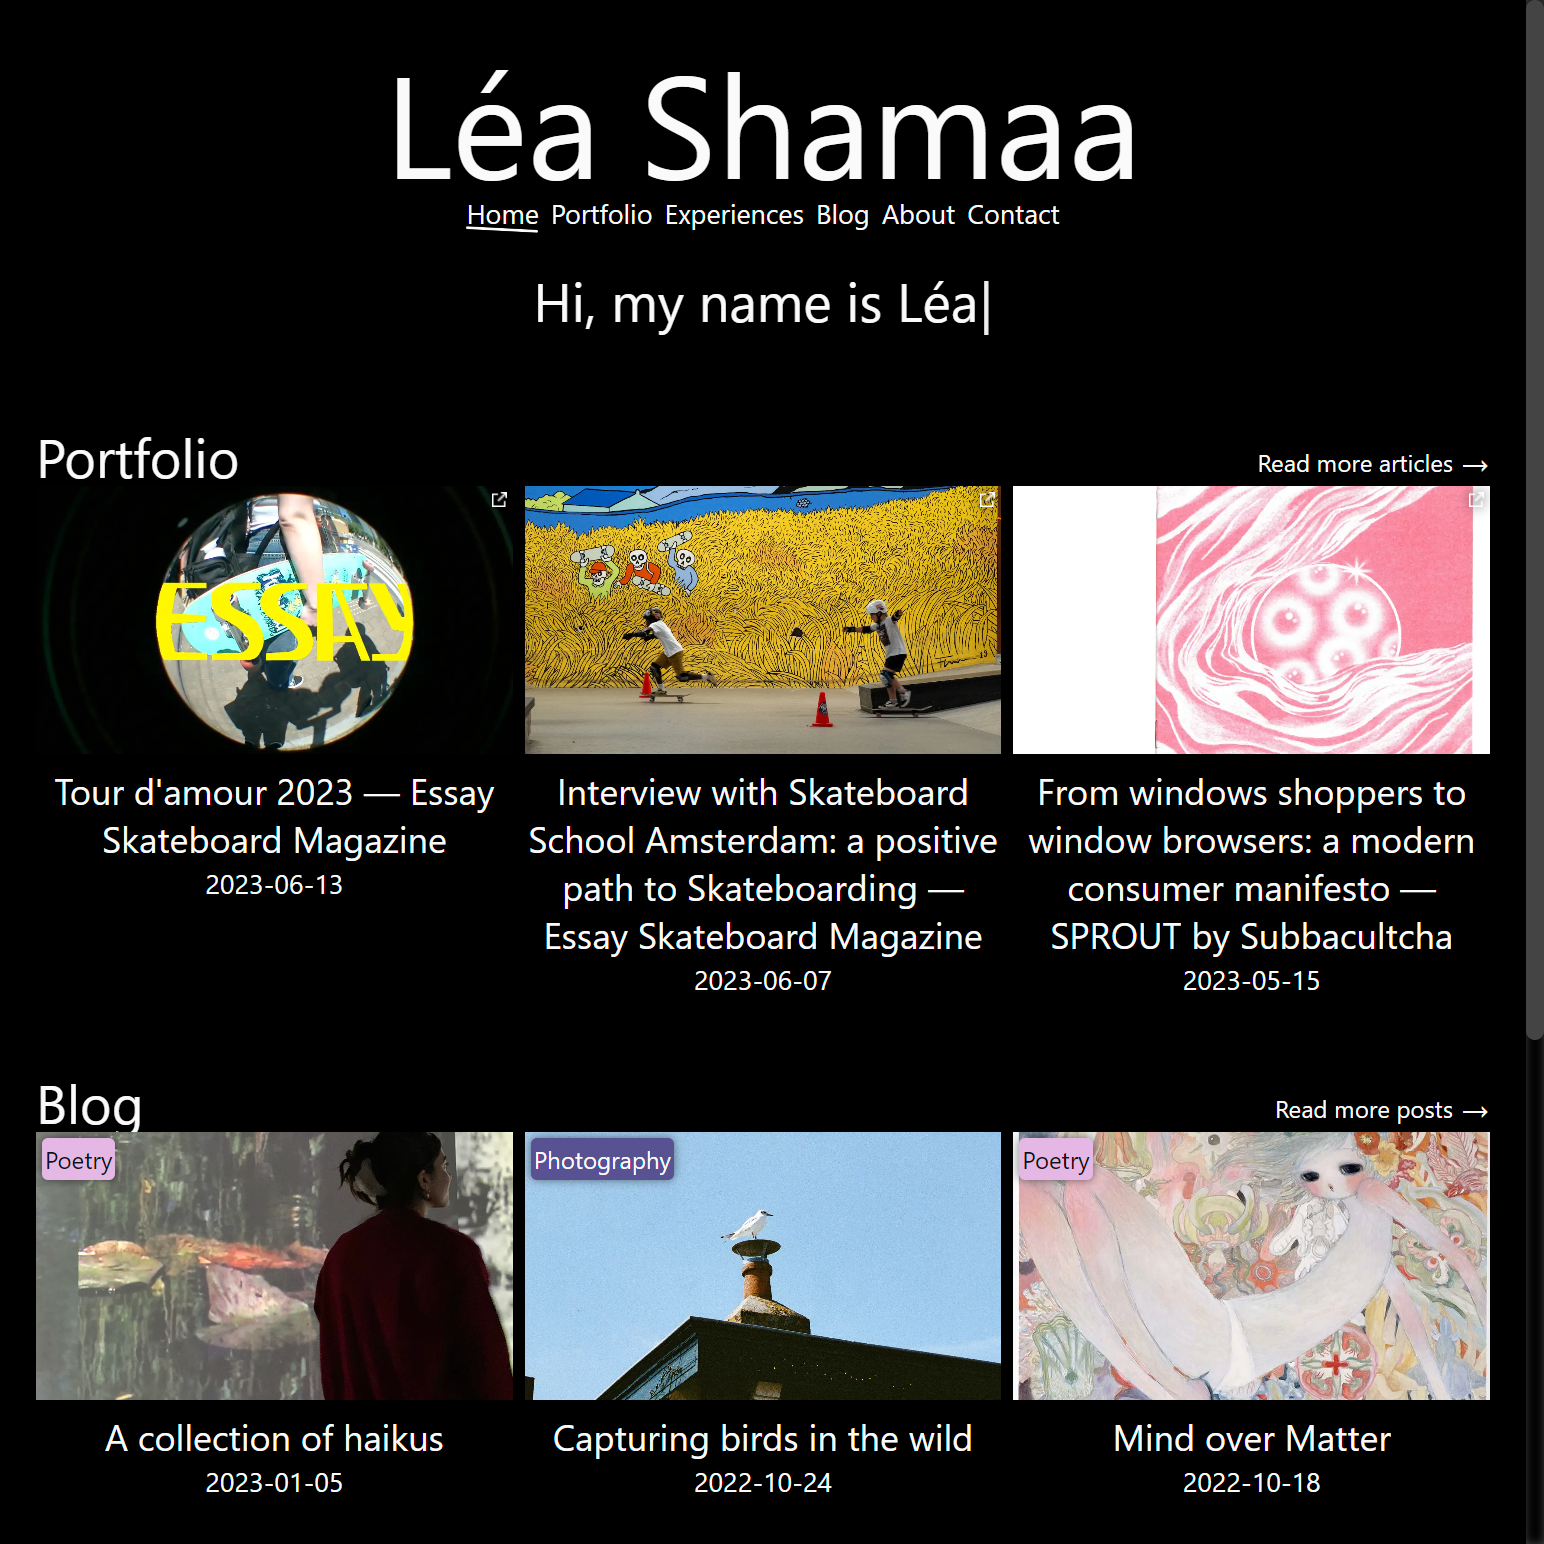
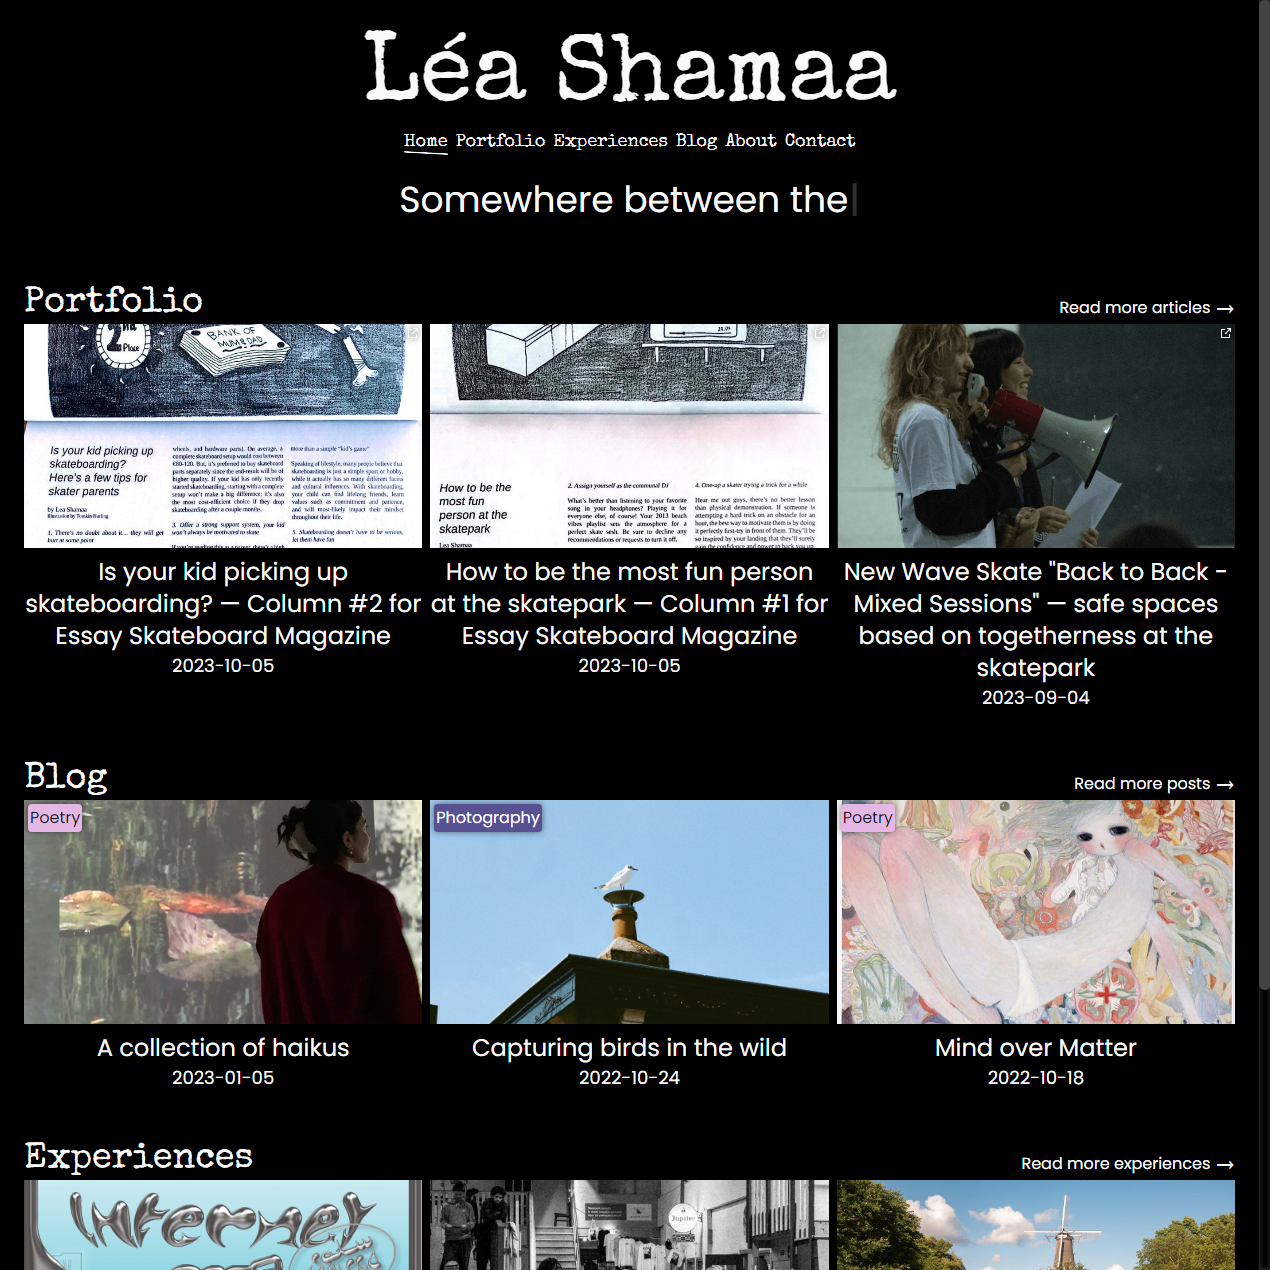
Content updates

diff --git a/styles/globals.scss b/styles/globals.scss
@@ -90,6 +90,14 @@ body {
   @apply bg-neutral-500;
 }
 
+::-webkit-scrollbar-thumb:hover {
+  @apply bg-neutral-400;
+}
+
+::-webkit-scrollbar-thumb:active {
+  @apply bg-neutral-600;
+}
+
 #app {
   ::-webkit-scrollbar {
     @apply w-2;

diff --git a/components/mdContent/mdContent.module.scss b/components/mdContent/mdContent.module.scss
@@ -39,7 +39,7 @@
   }
 
   .mainTitle {
-    @apply m-0 text-4xl;
+    @apply m-0 text-6xl;
   }
 
   .thumbnail {

diff --git a/content/projects/2022-02-21_portfolio_lea.md b/content/projects/2022-02-21_portfolio_lea.md
@@ -4,9 +4,33 @@ startDate: 2022-02-21
 endDate: 2022-6-21
 thumbnail: /assets/portfolio_lea.png
 type: Personal
-description: This project is a portfolio website for Lea Shamaa aimed at her Journalist career.
-  The website features blog articles, portfolio items and past experiences. The website also
-  has a contact form and about page. The project was made using Next.js & DecapCMS. The front-end
-  features animations, effects, static rendering and dark-mode. On the back-end CMS the content of the
-  website can be altered and added to.
+description: This project is a portfolio website for Lea Shamaa aimed at aiding
+  her Journalistic career. The website features blog articles, portfolio items
+  and past experiences. The website also has a contact form and about page. The
+  project was made using Next.js & DecapCMS. The front-end features animations,
+  effects, static rendering and dark-mode. On the back-end CMS the content of
+  the website can be altered and added to.
 ---
+# Journalistic Portfolio Website for Lea Shamaa
+
+<hr />
+
+As I was looking for new personal projects to pursue and my girlfriend was entering the journalistic world and needed an online presence where she could show-off her past experiences and projects. Much like the personal portfolio website you are reading this on right now but then in the context of journalism instead of software engineering.
+
+The website needed be easy to manage in terms of adding new content, articles and basic customization. I continued to build on my go-to tech stack which includes Next.js as full-stack framework and DecapCMS (Formerly NetlfyCMS) as content management system hosted on Netlify. All styling was done using TailwindCSS and TailwindCSS Prose for the article styling. Content is saved from the CMS directly into the repository through automatic Pull-Requests after which new builds are triggered through Continuous Integration with Netlify as well as preview deployements for Drafted changes in the CMS.
+
+- - -
+
+## Technologies & Frameworks
+
+<ul class="icon-list">
+<li>Next.js <a href="#"><img src="/assets/placeholder.jpg" alt="icon"></a></li>
+<li>TailwindCSS <a href="#"><img src="/assets/placeholder.jpg" alt="icon"></a></li>
+<li>DecapCMS (Formerly Netlify CMS) <a href="#"><img src="/assets/placeholder.jpg" alt="icon"></a></li>
+<li>Node.js <a href="#"><img src="/assets/placeholder.jpg" alt="icon"></a></li>
+<li>Sass <a href="#"><img src="/assets/placeholder.jpg" alt="icon"></a></li>
+<li>GitHub <a href="#"><img src="/assets/placeholder.jpg" alt="icon"></a></li>
+<li>Netlify <a href="#"><img src="/assets/placeholder.jpg" alt="icon"></a></li>
+<li>Progressive Web App <a href="#"><img src="/assets/pwa.png" alt="icon"></a></li>
+<li>Markdown <a href="#"><img src="/assets/markdown.png" alt="icon"></a></li>
+</ul>

diff --git a/content/projects/2021-02-08_kabisa.md b/content/projects/2021-02-08_kabisa.md
@@ -1,5 +1,5 @@
 ---
-title: Kabisa B.V.
+title: Kabisa - Graduation Internship
 startDate: 2021-02-08
 endDate: 2021-07-23
 thumbnail: /assets/kabisa.webp
@@ -7,7 +7,12 @@ type: Professional
 description: For my graduation assignment for my Software Engineering study at the
   University of Applied Sciences in Amsterdam I did an internship at the Kabisa B.V. company.
 ---
-# Kabisa - Graduation Internship
+
+For my graduation assignment for my Software Engineering study at the University of Applied Sciences in Amsterdam I did
+an internship at the Kabisa B.V. company. During the internship I worked on a singular research and development assignment.
+The graduation assignment was about headless architecture in the context of e-commerce applications. For the assignment I
+performed research about what headless architectures are, how they compare to traditional (monolithic) architectures and
+when which solution is applicable when it comes to an e-commerce system.
 
 ## Technologies & Frameworks
 
@@ -23,12 +28,6 @@ description: For my graduation assignment for my Software Engineering study at t
 - - -
 
 ## Summary
-
-For my graduation assignment for my Software Engineering study at the University of Applied Sciences in Amsterdam I did
-an internship at the Kabisa B.V. company. During the internship I worked on a singular research and development assignment.
-The graduation assignment was about headless architecture in the context of e-commerce applications. For the assignment I
-performed research about what headless architectures are, how they compare to traditional (monolithic) architectures and
-when which solution is applicable when it comes to an e-commerce system.
 
 Based on the initial research I gathered technical and client oriented requirements from within the Kabisa organisation for
 such an e-commerce system. Based on the collected requirements I compared potential headless e-commerce platforms and compatible

diff --git a/content/projects/2021-02-19_winc-academy.md b/content/projects/2021-02-19_winc-academy.md
@@ -10,7 +10,10 @@ description: During my time as a Software Engineering student I worked for a
   studies are done remotely and contact with the students was done via the Slack
   channel.
 ---
-# Winc Academy - Part-time Job
+
+During my time as a Software Engineering student I worked for a couple of months at the Winc Academy. The Winc Academy is
+an online academy where people can learn programming from experienced teachers. The programming studies are done remotely
+and contact with the students was done via the Slack channel.
 
 ## Technologies & Frameworks
 
@@ -25,10 +28,6 @@ description: During my time as a Software Engineering student I worked for a
 - - -
 
 ## Summary
-
-During my time as a Software Engineering student I worked for a couple of months at the Winc Academy. The Winc Academy is
-an online academy where people can learn programming from experienced teachers. The programming studies are done remotely
-and contact with the students was done via the Slack channel.
 
 My activities within the Winc Academy consisted of checking the assignments made by the students based on different acceptance
 criteria and general programming best practices and patterns. Checked assignments were graded, the results communicated with 

diff --git a/content/projects/2023-12-08_team-rockstars-it.md b/content/projects/2023-12-08_team-rockstars-it.md
@@ -8,7 +8,6 @@ description: My first real job as a software engineer specialized in full-stack
   web development! With team Rockstars I work on project basis for different
   clients.
 ---
-# Team Rockstars IT
 
 After graduating from my Software Engineering studies at the University of Applied sciences in Amsterdam I was ready to start looking for my first real job. I started applying to some companies and set my LinkedIn profile to "Looking for a job". This caused a huge surge in phone calls of parties interested in hiring me which became a bit overwhelming at some point. After having some interviews with a number of companies I got a few contractual offers from a variety of parties. One of which was Team Rockstars IT, which I ended up choosing as my first employer because there was a very good fit between me and the company and the people I've spoken with there. As well as the ability to work for different clients on project basis in order to discover what my actual preferences are in the Software Engineering field.
 

diff --git a/content/projects/2021-10-11_whoami.md b/content/projects/2021-10-11_whoami.md
@@ -1,5 +1,5 @@
 ---
-title: WhoAmI?
+title: WhoAmI - React?
 startDate: 2021-10-11
 endDate: 2021-10-13
 thumbnail: /assets/whoami.webp
@@ -9,7 +9,6 @@ description: As you know by now I like to experiment with different API's. This
   application has been created for my own enjoyment and to improve my skills
   regarding quick prototyping, API data fetching and some minor animations.
 ---
-# WhoAmI? - React
 
 As you know by now I like to experiment with different API's. This time we are predicting properties of people based on their name!
 The application has been created for my own enjoyment and to improve my skills regarding quick prototyping, API data fetching

diff --git a/content/projects/2021-11-06_rockstars.md b/content/projects/2021-11-06_rockstars.md
@@ -1,5 +1,5 @@
 ---
-title: Rockstars
+title: Rockstars Static
 startDate: 2021-11-06
 endDate: 2021-11-09
 thumbnail: /assets/rockstars.webp
@@ -10,7 +10,6 @@ description: This project was a learning experience and a good example of how to
   rockstars and their songs. The application is inspired by the Front-End Tech
   Case for my new position at Team Rockstars IT.
 ---
-# Rockstars Static - Next.js
 
 This project was a learning experience and a good example of how to use Next.js. This project demonstrates how to use 
 Next.js to render static web pages from an external data source. The application allows you to search for rockstars and their songs.

diff --git a/content/projects/2021-07-09_portfolio_v1.md b/content/projects/2021-07-09_portfolio_v1.md
@@ -8,7 +8,6 @@ description: I built this Personal Portfolio Website to introduce myself as a
   software engineer, demonstrate some of my previous projects and experiences
   and as practice in vanilla web development (No frameworks).
 ---
-# Personal Portfolio Website v1 - Vanilla JS
 
 I built the previous version of this Personal Portfolio Website to introduce myself as a software engineer, demonstrate some of my previous projects
 and experiences and as practice in vanilla web development (No frameworks). I updated this website with new content as I

diff --git a/content/projects/2021-01-22_pokedexreact.md b/content/projects/2021-01-22_pokedexreact.md
@@ -8,7 +8,6 @@ description: For my graduation assignment for my Software Engineering study at
   the University of Applied Sciences in Amsterdam I did an internship at the
   Kabisa B.V. company.
 ---
-# PokéDex - React
 
 As you know by now I like to experiment with the *[PokéApi](https://pokeapi.co/)*. This project is the third Pokémon related application I have built.
 This time built using the *[ReactJS](https://reactjs.org/)* web framework. This was my first ever *ReactJS* application I have created.

diff --git a/content/projects/2021-11-22_nu_nl.md b/content/projects/2021-11-22_nu_nl.md
@@ -8,7 +8,6 @@ description: This project demonstrates how to use the Next.js framework to
   render multiple pages from an external data source. The data source originates
   from the nu.nl.
 ---
-# Nu.nl Clone - Next.js
 
 This project was a learning experience and a good example of how to use Next.js to generate multiple pages.
 This project demonstrates how to use the Next.js framework to render multiple pages from an external data source.

diff --git a/content/projects/2021-7-22_quoty.md b/content/projects/2021-7-22_quoty.md
@@ -7,7 +7,6 @@ type: Professional
 description: For the coding assignment for the Kabisa B.V. company I created the
   Quoty Quotes Network using React and a supplied Quotes Api (Discontinued).
 ---
-# Quoty Quotes Network - React
 
 As you know by now I like to experiment with different API's.
 This time built using the *[ReactJS](https://reactjs.org/)* web framework.
